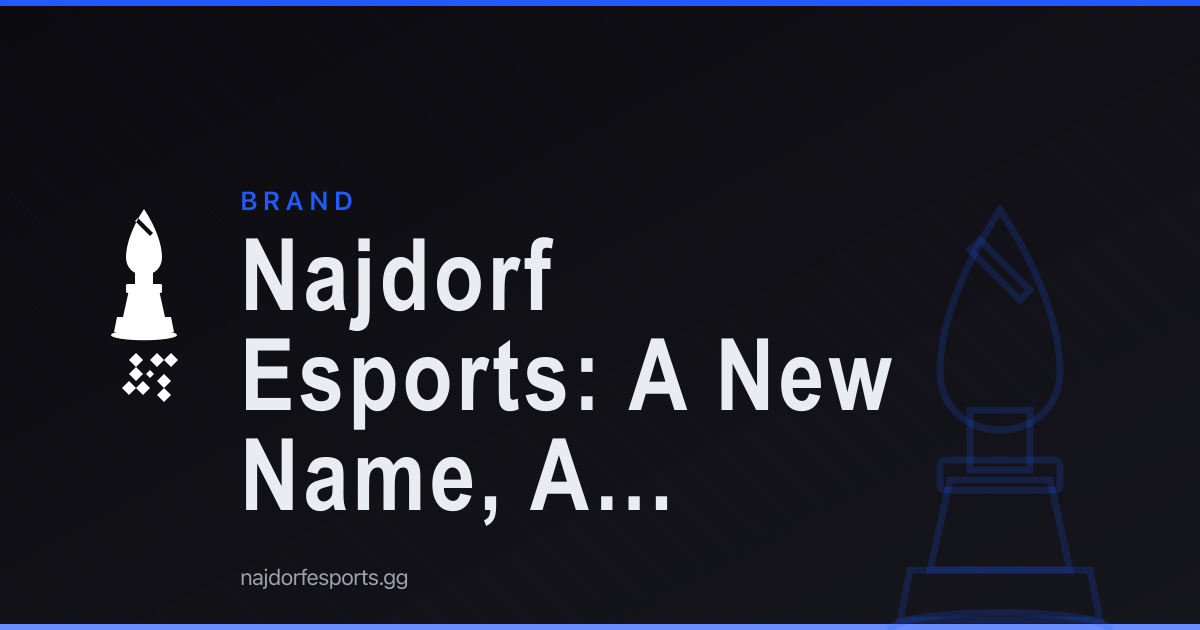
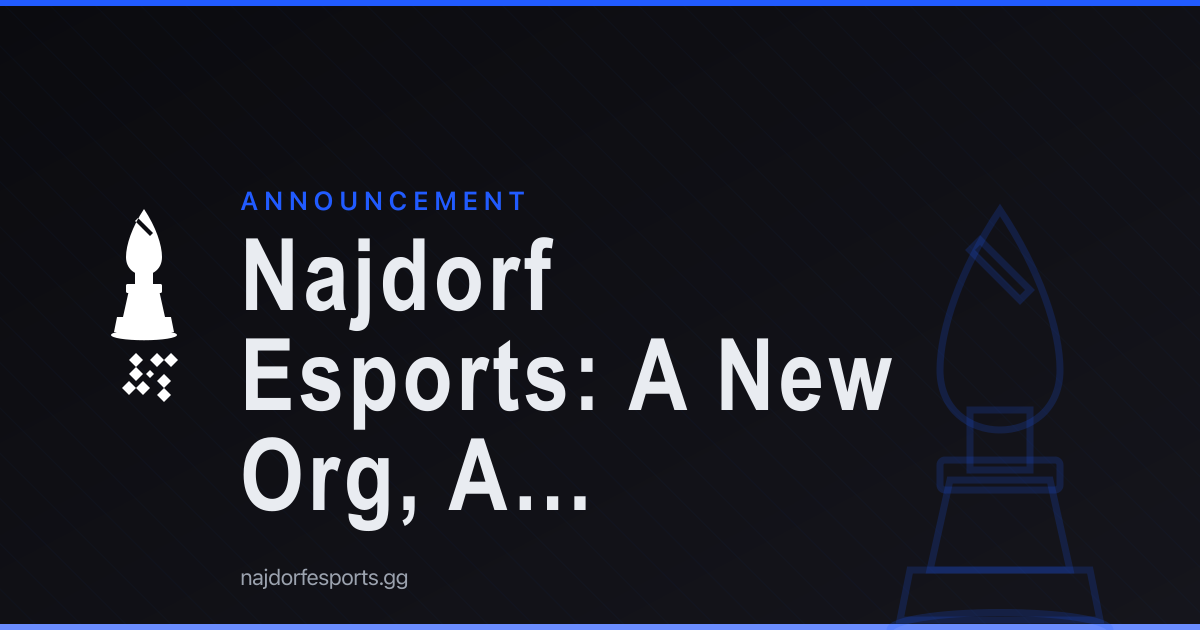
content(news): reframe rebrand post as an acquisition, not a rename
Najdorf Esports is a separate, new organization that picked up the
Rankers lineup — it is not a Rankers rebrand. Rewriting the post so
that distinction lands on the first read:

- Title    'A New Name, A Familiar Aggression'
        →  'A New Org, A Familiar Squad'
- Eyebrow  'Brand' → 'Announcement'
- Lede explicitly: 'Najdorf Esports is a new Overwatch organization
  in the Pacific region. Our first move: acquiring the roster that
  competed as Rankers.'
- Adds an inline clarifier: 'This isn't a rebrand of Rankers. Najdorf
  Esports is a separate organization, with its own ownership and
  identity, that's bringing the Rankers lineup over intact.'
- Roster-continuity paragraph reworked so the players carry over but
  the org behind them is new.
- Description meta updated to match the lede framing.

Per-route OG card (news-2026-05-najdorf-rebrand.png) regenerated with
the new title.

Changed region(s): [[0.185, 0.6937, 0.555, 0.8444], [0.185, 0.3016, 0.4317, 0.3317]]

diff --git a/src/content/news/2026-05-najdorf-rebrand.md b/src/content/news/2026-05-najdorf-rebrand.md
@@ -1,16 +1,18 @@
 ---
-title: 'Najdorf Esports: A New Name, A Familiar Aggression'
+title: 'Najdorf Esports: A New Org, A Familiar Squad'
 date: 2026-05-23
-description: "We're rebranding from Rankers to Najdorf Esports ahead of OWCS Pacific Stage 2. The five who played Stage 1 are still the five going into Stage 2."
-eyebrow: 'Brand'
+description: "Najdorf Esports is a new Pacific-region Overwatch organization. Our first move: acquiring the roster that competed as Rankers in OWCS Pacific Stage 1 — same five, same coaching staff, new home for Stage 2."
+eyebrow: 'Announcement'
 tone: 'primary'
 ---
 
-We're rebranding. The org that competed as Rankers in OWCS Pacific Stage 1 is now **Najdorf Esports**.
+**Najdorf Esports is a new Overwatch organization in the Pacific region.** Our first move: acquiring the roster that competed as **Rankers** in OWCS Pacific Stage 1.
 
-The roster doesn't change. The five players who took Stage 1 are still the five going into Stage 2, plus the same coaching staff. What's new is the name, the visual identity, and a clearer way to talk about how we want to play.
+This isn't a rebrand of Rankers. Najdorf Esports is a separate organization, with its own ownership and identity, that's bringing the Rankers lineup over intact under a new banner.
 
-The Najdorf is the Sicilian Defence's sharpest sound reply to 1.e4. It looks quiet at the surface. Black plays a sleepy little pawn move to a6 and waits. Then the game explodes into some of the most analyzed attacking lines in chess history. Bobby Fischer loved it. Kasparov used it twice to beat Karpov for the world title. That's the version of us we want showing up at the LAN. Patient setup, sharp execution.
+The squad carries over as-is. The five players who took Stage 1 are still the five going into Stage 2, plus the same coaching staff — they now compete under the Najdorf Esports name. What's new is the org behind them, the visual identity, and a clearer way to talk about how we want them to play.
+
+We named the org after a chess opening on purpose. The Najdorf Variation is the Sicilian Defence's sharpest sound reply to 1.e4. It looks quiet at the surface — Black plays a sleepy little pawn move to a6 and waits. Then the game explodes into some of the most analyzed attacking lines in chess history. Bobby Fischer loved it. Kasparov used it twice to beat Karpov for the world title. That's the version of the game we want our players showing up to: patient setup, sharp execution.
 
 OWCS Pacific Stage 2's main event runs from **June 4** through July 9. Roster announcements, match schedules, and watch-party plans will go up here and on our social channels in the weeks ahead.
 
@@ -18,4 +20,4 @@ For partnerships, press, or anything else, reach us at [owner@najdorfesports.gg]
 
 GLHF.
 
-The Najdorf Esports team
+— The Najdorf Esports team
